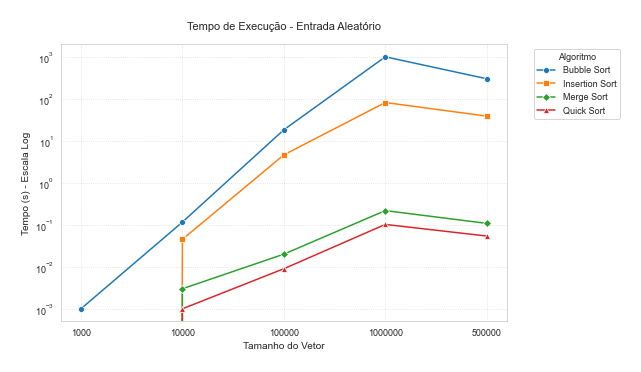
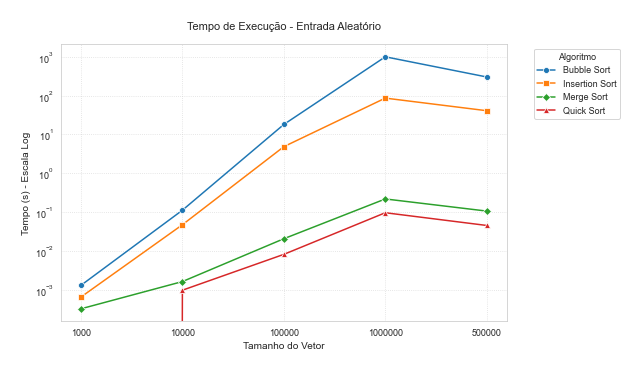
Graficos gerados para a versão de 3 vezes

diff --git a/graficos/graficos.py b/graficos/graficos.py
@@ -117,7 +117,7 @@ def main():
     os.makedirs(output_dir, exist_ok=True)
     
     # Caminho do arquivo de dados
-    arquivo_resultados = os.path.join(script_dir, '../resultados/resultados.csv')
+    arquivo_resultados = os.path.join(script_dir, '../resultados/resultados_3rep.csv')
     
     if not os.path.exists(arquivo_resultados):
         print(f"Erro: Arquivo não encontrado - {arquivo_resultados}")
